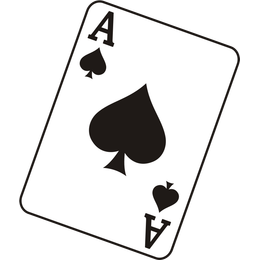
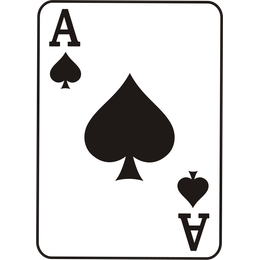
physics for squares and polygons

diff --git a/sketch.js b/sketch.js
@@ -5,10 +5,9 @@ const soundUrl = "public/pop.";
 const isSleeping = false, density = 0.01, friction = 0.1, frictionStatic = 0.5, slop = 0.0001, restitution = 0.2
 const Engine = Matter.Engine, Render = Matter.Render, World = Matter.World, Bodies = Matter.Bodies, Events = Matter.Events, Body = Matter.Body;
 let timeoutId, render, engine, world, width, height, smallerMultiplyer, isPortrait, sound
-let muted = true, isPaused = false, wasPaused = false, currentlyPlaying = 0, playLimit = 8
+let muted = true, isPaused = false, wasPaused = false, currentlyPlaying = 0, playLimit = 5
 let fruits = [], pics = [], combos = []
 let filenames = ["aceofspades.svg", "apple.svg", "basketball.svg", "clover.svg", "coke.svg", "dice.svg", "eightball.svg", "fish.svg", "flower1.svg", "flower2.svg", "frog.svg", "golfball.svg", "hamburger.svg", "heart.svg", "horse.svg", "lemon.svg", "marble.svg", "pig.svg", "saturn.svg", "seashell.svg", "skye.svg", "snowflake.svg", "soccer.svg", "starfish.svg", "strawberry.svg", "teddy.svg", "watermelon.svg"]
-console.log(`number of filenames: `, filenames.length)
 
 const description = `Suika Stay Home is a zero-player game and artwork by Billy Rennekamp and Joon Yeon Park.`
 const dr = new DetRan()
@@ -28,6 +27,7 @@ async function init() {
   makeFruit()
   buildWorldEngine()
   resize()
+  prePopulate()
   if (hl.context.previewMode) {
     prePopulate()
     setTimeout(() => {
@@ -228,16 +228,39 @@ function addFruit(index = 0) {
 
 function addBody(x, y, index, inertia = 0) {
   const fruit = fruits[index];
-  let filename
+  let filename, combo, comboIndex
   if (index < 8) {
     filename = `coin_${pics[index]}.png`
   } else {
-    const combo = combos[hl.token.id]
-    const comboIndex = combo[index - 8] + 1
-    filename = `prize_${comboIndex}.png`
+    combo = combos[hl.token.id]
+    comboIndex = combo[index - 8]
+    filename = `prize_${comboIndex + 1}.png`
   }
-
-  const body = Bodies.circle(x, y, fruit.radius, {
+  let shape, dimensions
+  if (index > 7 && filenames[comboIndex].includes('aceofspades')) {
+    shape = 'rectangle'
+    const w = fruit.radius * 2 - 36 * 2
+    const h = fruit.radius * 2
+    dimensions = [w, h]
+  } else if (index > 7 && filenames[comboIndex].includes('coke')) {
+    shape = 'rectangle'
+    const w = fruit.radius * 2 - 56 * 2
+    const h = fruit.radius * 2
+    dimensions = [w, h]
+  } else if (index > 7 && filenames[comboIndex].includes('pig')) {
+    shape = 'rectangle'
+    const w = fruit.radius * 2
+    const h = fruit.radius * 2 - 54 * 2
+    dimensions = [w, h]
+  } else if (index > 7 && (filenames[comboIndex].includes('dice') || filenames[comboIndex].includes('snowflake'))) {
+    console.log('dice')
+    shape = 'polygon'
+    dimensions = [6, fruit.radius]
+  } else {
+    shape = 'circle'
+    dimensions = [fruit.radius]
+  }
+  const body = Bodies[shape](x, y, ...dimensions, {
     index,
     isSleeping,
     density,
@@ -252,7 +275,15 @@ function addBody(x, y, index, inertia = 0) {
       }
     },
   });
+  if (index > 7) {
+    if (filenames[comboIndex].includes('aceofspades')) {
+      Body.rotate(body, Math.PI / 5);
+    } else if (filenames[comboIndex].includes('dice')) {
+      Body.rotate(body, Math.PI / 9);
+    }
+  }
   World.add(world, body);
+
 }
 
 // -----------------
@@ -439,4 +470,4 @@ function shuffle(unshuffled) {
     .map(value => ({ value, sort: dr.random() }))
     .sort((a, b) => a.sort - b.sort)
   return shuffled.map(({ value }) => value)
-}      
+}              
